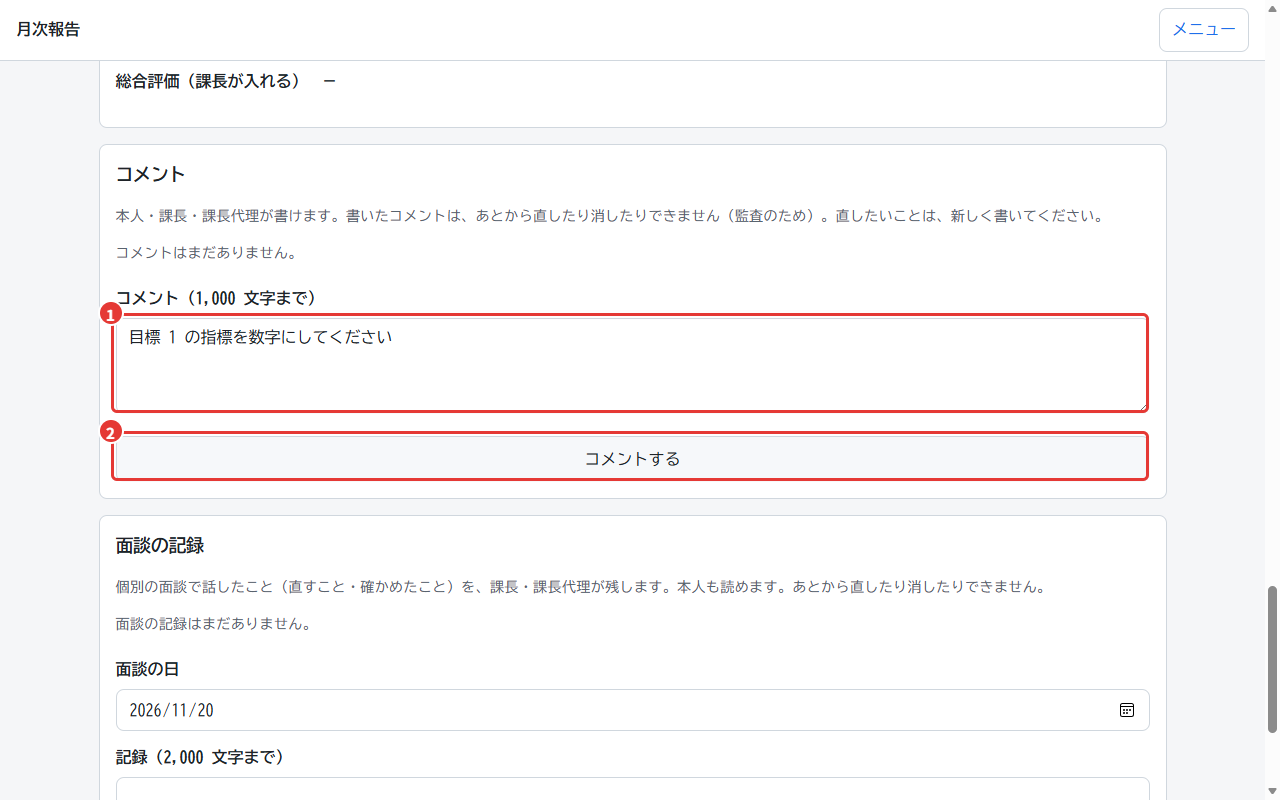
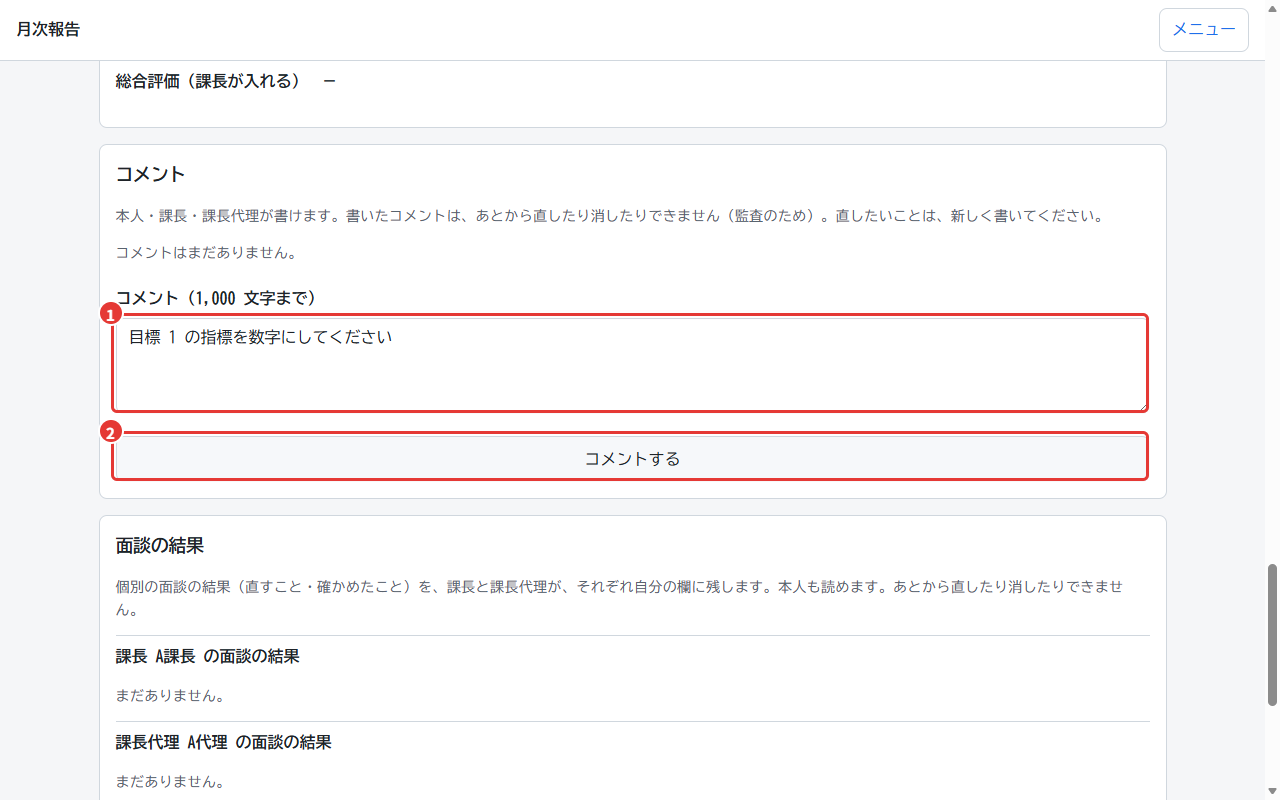
目標管理: 面談の結果を、課長・課長代理の一人ずつの欄に分けた（それぞれ自分の欄にだけ書く。課長代理の面談の結果は任意）

diff --git a/public/css/app.css b/public/css/app.css
@@ -839,3 +839,8 @@ form.wizard-active .sticky-actions button[value="submit"] { display: none; }
 .goal-reply { margin: 8px 0 0 24px; padding-left: 12px; border-left: 3px solid var(--line); }
 .goal-reply-form { margin: 6px 0 0 24px; }
 .use-backup-code { margin: 4px 0 8px; }
+.goal-meeting-block { border-top: 1px solid var(--line); padding-top: 8px; margin-top: 12px; }
+.goal-meeting-block h3 { margin: 0 0 6px; font-size: 1rem; }
+.goal-criteria-table { border-collapse: collapse; font-size: 0.85rem; min-width: 900px; }
+.goal-criteria-table td { border: 1px solid var(--line); padding: 4px 6px; vertical-align: top; min-width: 4em; }
+.app-main:has(.goal-criteria) { max-width: 1400px; }

diff --git a/tools/test/smoke_goals.py b/tools/test/smoke_goals.py
@@ -170,7 +170,7 @@ def main():
                                                                        "sheet_id": str(sheet_id), "comment_id": comment_id})
     check("コメントを消す操作はない（403）", status_code == 403, status_code)
     _, _, page_html = owner.get("/goals/edit.php?id=%d" % sheet_id)
-    check("更新の履歴に、作成・課長の評価・コメント・返信・面談が残る", all(text in page_html for text in ("作成", "課長が評価を保存", "コメント", "返信", "面談の記録")))
+    check("更新の履歴に、作成・課長の評価・コメント・返信・面談が残る", all(text in page_html for text in ("作成", "課長が評価を保存", "コメント", "返信", "面談の結果")))
 
     section("G-27", "目標管理: 課長代理・課長のシート")
     _, _, page_html = client_of("dairi_a").get("/goals/edit.php?year=%d" % fiscal_year)
@@ -247,6 +247,49 @@ def main():
         check("%s は、A課のシートをまとめて受け取れない（403）" % login_id, bulk_status == 403, bulk_status)
     _, _, history_html = owner.get("/goals/edit.php?id=%d" % sheet_id)
     check("まとめて受け取ったことも、シートの更新の履歴に残る", history_html.count("Excel を受け取った") >= 2)
+    section("G-27", "目標管理: 面談の結果は、課長・課長代理の一人ずつの欄に書く")
+    meeting_block_pattern = r'<div class="goal-meeting-block" data-reviewer-id="(\d+)">(.*?)(?=<div class="goal-meeting-block"|</section>)'
+
+    def meeting_blocks(page_html):
+        return {int(reviewer_id): block_html for reviewer_id, block_html in re.findall(meeting_block_pattern, page_html, re.S)}
+
+    boss_user_id = user_info_by_login_id["kacho_a"]["id"]
+    deputy_user_id = user_info_by_login_id["dairi_a"]["id"]
+    second_deputy_user_id = user_info_by_login_id["leader_a"]["id"]
+    _, _, page_html = owner.get("/goals/edit.php?id=%d" % sheet_id)
+    block_by_reviewer_id = meeting_blocks(page_html)
+    check("本人の画面に、課長と課長代理の欄が分かれて出る（課長が先）", list(block_by_reviewer_id) == [boss_user_id, deputy_user_id], list(block_by_reviewer_id))
+    check("課長代理の面談の結果は、課長代理の欄に出る（課長の欄には出ない）",
+          "目標2の指標を件数に直すと決めた" in block_by_reviewer_id.get(deputy_user_id, "") and "目標2の指標を件数に直すと決めた" not in block_by_reviewer_id.get(boss_user_id, ""))
+    _, _, page_html = boss.get("/goals/edit.php?id=%d" % sheet_id)
+    block_by_reviewer_id = meeting_blocks(page_html)
+    check("課長の画面では、書く欄は課長の欄にだけ出る", 'value="meeting"' in block_by_reviewer_id.get(boss_user_id, "") and 'value="meeting"' not in block_by_reviewer_id.get(deputy_user_id, ""))
+    status_code, _, _ = boss.post("/goals/edit.php?id=%d" % sheet_id, {"csrf_token": csrf(page_html), "request_key": rkey(page_html), "action": "meeting",
+                                                                      "sheet_id": str(sheet_id), "held_on": datetime.date.today().isoformat(), "note": "課長の面談: 下期は設計の指摘の件数で見る"})
+    _, _, page_html = owner.get("/goals/edit.php?id=%d" % sheet_id)
+    block_by_reviewer_id = meeting_blocks(page_html)
+    check("課長の面談の結果は、課長の欄に出る", status_code in (302, 303) and "課長の面談: 下期は設計の指摘の件数で見る" in block_by_reviewer_id.get(boss_user_id, "")
+          and "課長の面談" not in block_by_reviewer_id.get(deputy_user_id, ""), status_code)
+    # 課長代理が 2 人いるとき（主任を課長代理にして確かめ、あとで戻す）
+    database.execute("UPDATE users SET role_title = '課長代理' WHERE id = ?", (second_deputy_user_id,))
+    try:
+        _, _, page_html = owner.get("/goals/edit.php?id=%d" % sheet_id)
+        block_by_reviewer_id = meeting_blocks(page_html)
+        check("課長代理が 2 人いると、課長と課長代理 2 人の 3 つの欄が出る", list(block_by_reviewer_id) == [boss_user_id, deputy_user_id, second_deputy_user_id], list(block_by_reviewer_id))
+        second_deputy = login(arguments.base, "leader_a", user_info_by_login_id["leader_a"])
+        _, _, page_html = second_deputy.get("/goals/edit.php?id=%d" % sheet_id)
+        status_code, _, _ = second_deputy.post("/goals/edit.php?id=%d" % sheet_id, {"csrf_token": csrf(page_html), "request_key": rkey(page_html), "action": "meeting",
+                                                                                     "sheet_id": str(sheet_id), "held_on": datetime.date.today().isoformat(), "note": "2 人目の課長代理の面談"})
+        _, _, page_html = owner.get("/goals/edit.php?id=%d" % sheet_id)
+        block_by_reviewer_id = meeting_blocks(page_html)
+        check("2 人目の課長代理の面談の結果は、その人の欄に出る（ほかの 2 人の欄には出ない）", status_code in (302, 303)
+              and "2 人目の課長代理の面談" in block_by_reviewer_id.get(second_deputy_user_id, "")
+              and all("2 人目の課長代理の面談" not in block_by_reviewer_id.get(reviewer_id, "") for reviewer_id in (boss_user_id, deputy_user_id)), status_code)
+    finally:
+        database.execute("UPDATE users SET role_title = '主任' WHERE id = ?", (second_deputy_user_id,))
+    _, _, page_html = owner.get("/goals/edit.php?id=%d" % sheet_id)
+    check("主任に戻すと、その人の欄は消え、書いた面談の結果は「以前の担当」の欄に残る",
+          second_deputy_user_id not in meeting_blocks(page_html) and "以前の担当の面談の結果" in page_html and "2 人目の課長代理の面談" in page_html)
     owner.headers["User-Agent"] = MOBILE_USER_AGENT
     status_code, _, _ = owner.get("/goals/download.php?id=%d" % sheet_id)
     check("スマートフォンでは受け取れない（PC から）", status_code == 403, status_code)

diff --git a/app/views/goal_edit.php b/app/views/goal_edit.php
@@ -7,13 +7,13 @@
 /** @var array<string, mixed> $scores */
 /** @var array<int, array<string, mixed>> $comments */
 /** @var array<int, array<string, mixed>> $meetings */
+/** @var array<int, array{user_id: int, name: string, role_label: string}> $meetingReviewers 面談の結果の欄を持つ人（課長・課長代理） */
 /** @var array<int, array<string, mixed>> $history */
 /** @var string[] $errorTextList */
 /** @var bool $isMobile */
 $sheetData = $sheet['data'];
 $isOwner = $viewerRole === 'owner';
 $isBoss = $viewerRole === 'boss';
-$canWriteMeeting = in_array($viewerRole, ['boss', 'deputy'], true);
 $isNewSheet = $sheet['id'] === null;
 $formatScore = function (float $scoreValue): string { return rtrim(rtrim(number_format($scoreValue, 1), '0'), '.'); };
 // 文の欄: 書ける人には入力欄、ほかの人には文だけ
@@ -220,25 +220,46 @@ $roleNoteByViewerRole = [
 </section>
 
 <section class="card goal-meetings" id="meetings">
-  <h2>面談の記録</h2>
-  <p class="note"><?= h_lines(msg('個別の面談で話したこと（直すこと・確かめたこと）を、課長・課長代理が残します。本人も読めます。あとから直したり消したりできません。')) ?></p>
-  <?php if (!$meetings): ?><p class="note"><?= h(msg('面談の記録はまだありません。')) ?></p><?php endif; ?>
-  <?php foreach ($meetings as $meetingItem): ?>
-    <div class="goal-comment">
-      <p class="goal-comment-head"><strong><?= h($meetingItem['held_on']) ?> の面談</strong> <span class="note"><?= h($meetingItem['user_name']) ?>（<?= h(display_datetime($meetingItem['created_at'])) ?> に記録）</span></p>
-      <div><?= h_lines($meetingItem['note']) ?></div>
+  <h2>面談の結果</h2>
+  <p class="note"><?= h_lines(msg('個別の面談の結果（直すこと・確かめたこと）を、課長と課長代理が、それぞれ自分の欄に残します。課長代理の面談の結果は、なくてもかまいません（任意）。本人も読めます。あとから直したり消したりできません。')) ?></p>
+  <?php
+  $reviewerUserIdList = array_column($meetingReviewers, 'user_id');
+  $formerMeetingList = array_values(array_filter($meetings, function (array $meetingItem) use ($reviewerUserIdList): bool { return !in_array($meetingItem['created_by'], $reviewerUserIdList, true); }));
+  ?>
+  <?php if (!$meetingReviewers): ?><p class="note"><?= h(msg('このシートには、面談の結果を書く人（課長・課長代理）がいません。')) ?></p><?php endif; ?>
+  <?php foreach ($meetingReviewers as $reviewerItem): $reviewerMeetingList = array_values(array_filter($meetings, function (array $meetingItem) use ($reviewerItem): bool { return $meetingItem['created_by'] === $reviewerItem['user_id']; })); ?>
+    <div class="goal-meeting-block" data-reviewer-id="<?= (int) $reviewerItem['user_id'] ?>">
+      <h3><?= h($reviewerItem['role_label']) ?> <?= h($reviewerItem['name']) ?> の面談の結果<?= $reviewerItem['role_label'] === '課長代理' ? '（任意）' : '' ?></h3>
+      <?php if (!$reviewerMeetingList): ?><p class="note"><?= h($reviewerItem['role_label'] === '課長代理' ? msg('まだありません（課長代理の面談の結果は、なくてもかまいません）。') : msg('まだありません。')) ?></p><?php endif; ?>
+      <?php foreach ($reviewerMeetingList as $meetingItem): ?>
+        <div class="goal-comment">
+          <p class="goal-comment-head"><strong><?= h($meetingItem['held_on']) ?> の面談</strong> <span class="note"><?= h(display_datetime($meetingItem['created_at'])) ?> に記録</span></p>
+          <div><?= h_lines($meetingItem['note']) ?></div>
+        </div>
+      <?php endforeach; ?>
+      <?php if ($reviewerItem['user_id'] === (int) $user['id']): ?>
+        <form method="post" action="<?= h(url($sheetPath)) ?>" class="form">
+          <?= form_hidden() ?>
+          <input type="hidden" name="sheet_id" value="<?= (int) $sheet['id'] ?>">
+          <label for="goal-meeting-date">面談の日</label>
+          <input id="goal-meeting-date" name="held_on" type="date" value="<?= h(date('Y-m-d')) ?>" max="<?= h(date('Y-m-d')) ?>">
+          <label for="goal-meeting-note">面談の結果（2,000 文字まで）</label>
+          <textarea id="goal-meeting-note" name="note" maxlength="2000" rows="4"></textarea>
+          <button type="submit" name="action" value="meeting">面談の結果を残す</button>
+        </form>
+      <?php endif; ?>
     </div>
   <?php endforeach; ?>
-  <?php if ($canWriteMeeting): ?>
-    <form method="post" action="<?= h(url($sheetPath)) ?>" class="form">
-      <?= form_hidden() ?>
-      <input type="hidden" name="sheet_id" value="<?= (int) $sheet['id'] ?>">
-      <label for="goal-meeting-date">面談の日</label>
-      <input id="goal-meeting-date" name="held_on" type="date" value="<?= h(date('Y-m-d')) ?>" max="<?= h(date('Y-m-d')) ?>">
-      <label for="goal-meeting-note">記録（2,000 文字まで）</label>
-      <textarea id="goal-meeting-note" name="note" maxlength="2000" rows="4"></textarea>
-      <button type="submit" name="action" value="meeting">面談の記録を残す</button>
-    </form>
+  <?php if ($formerMeetingList): ?>
+    <div class="goal-meeting-block">
+      <h3>以前の担当の面談の結果</h3>
+      <?php foreach ($formerMeetingList as $meetingItem): ?>
+        <div class="goal-comment">
+          <p class="goal-comment-head"><strong><?= h($meetingItem['held_on']) ?> の面談</strong> <span class="note"><?= h($meetingItem['user_name']) ?>（<?= h(display_datetime($meetingItem['created_at'])) ?> に記録）</span></p>
+          <div><?= h_lines($meetingItem['note']) ?></div>
+        </div>
+      <?php endforeach; ?>
+    </div>
   <?php endif; ?>
 </section>
 

diff --git a/app/lib/messages_catalog.php b/app/lib/messages_catalog.php
@@ -317,12 +317,15 @@ return [
     '精算書を削除しました' => ['screens' => ['G-26 通勤定期代の精算']],
     '総務の様式に、保存した内容を入れたファイルです。' => ['screens' => ['G-26 通勤定期代の精算']],
     '通勤定期代の精算書を作って、総務の様式の Excel（.xlsx）で受け取ります。精算書を見られるのは自分だけです。月次報告とは別の機能で、承認の流れはありません。' => ['screens' => ['G-26 通勤定期代の精算']],
+    'このシートには、面談の結果を書く人（課長・課長代理）がいません。' => ['screens' => ['G-27 目標管理']],
     'このシートは読めません（暗号の鍵が変わった可能性があります）。システム管理者に連絡してください。' => ['screens' => ['G-27 目標管理']],
     'この年度の課の人のシートは、まだありません。' => ['screens' => ['G-27 目標管理']],
     'この様式は選べません（様式は役職で決まります）。' => ['screens' => ['G-27 目標管理']],
+    'まだありません。' => ['screens' => ['G-27 目標管理']],
+    'まだありません（課長代理の面談の結果は、なくてもかまいません）。' => ['screens' => ['G-27 目標管理']],
     'コメント' => ['screens' => ['G-27 目標管理']],
     'コメントはまだありません。' => ['screens' => ['G-27 目標管理']],
-    '個別の面談で話したこと（直すこと・確かめたこと）を、課長・課長代理が残します。本人も読めます。あとから直したり消したりできません。' => ['screens' => ['G-27 目標管理']],
+    '個別の面談の結果（直すこと・確かめたこと）を、課長と課長代理が、それぞれ自分の欄に残します。課長代理の面談の結果は、なくてもかまいません（任意）。本人も読めます。あとから直したり消したりできません。' => ['screens' => ['G-27 目標管理']],
     '本人・課長・課長代理が書けます。書いたコメントは、あとから直したり消したりできません（監査のため）。直したいことは、新しく書いてください。' => ['screens' => ['G-27 目標管理']],
     '様式の欄: {lines} 行・1 行 {width} 字ほど' => ['screens' => ['G-27 目標管理']],
     '様式は役職で決まります（{kind}）。' => ['screens' => ['G-27 目標管理']],
@@ -339,9 +342,8 @@ return [
     '課長以上の様式を選んでいます。営業・間接部門の人は切り替えてください（コンピテンシーの項目が変わります）。' => ['screens' => ['G-27 目標管理']],
     '達成率（実績 ÷ 計画）と評点（120% を超える：5／110% 以上：4／100% 以上：3／95% 以上：2／85% 以上：1／それ未満：0）は、様式の式で計算します。' => ['screens' => ['G-27 目標管理']],
     '面談の日を正しく入れてください（今日より先の日は入れられません）' => ['screens' => ['G-27 目標管理']],
+    '面談の結果を残しました' => ['screens' => ['G-27 目標管理']],
     '面談の記録' => ['screens' => ['G-27 目標管理']],
-    '面談の記録はまだありません。' => ['screens' => ['G-27 目標管理']],
-    '面談の記録を残しました' => ['screens' => ['G-27 目標管理']],
     '2 段階認証・予備のコード・ログインを覚えた端末・パスワード・画面のテーマを設定します。パスワードは「自動で作る」で作ることもできます。' => ['screens' => ['共通']],
     '{department} の課長が 2 人以上になります（課長は 1 人にしてください）' => ['screens' => ['共通']],
     '{goal}の「{field}」が長すぎます。様式の欄（{lines} 行・1 行 {width} 字ほど）に収まるようにしてください（いま {count} 行）' => ['screens' => ['共通']],

diff --git a/app/lib/goal.php b/app/lib/goal.php
@@ -414,7 +414,7 @@ function goal_add_history(int $sheetId, int $actorUserId, string $historyAction)
 /** 履歴の操作の表示名 */
 const GOAL_HISTORY_LABELS = [
     'create' => '作成', 'save_owner' => '本人が保存', 'save_boss' => '課長が評価を保存', 'comment' => 'コメント', 'reply' => '返信',
-    'meeting' => '面談の記録', 'download' => 'Excel を受け取った',
+    'meeting' => '面談の結果', 'download' => 'Excel を受け取った',
 ];
 
 /**
@@ -443,16 +443,48 @@ function goal_comments(int $sheetId): array
 }
 
 /**
+ * そのシートの面談をする人（面談の結果の欄を持つ人）: その課の課長と、そのシートを見る課長代理（複数いれば全員）。
+ * 持ち主の今の所属の課で決める（goal_viewer_role() と同じ決まり）。課長のシートは本人だけなので、面談をする人はいない
+ *
+ * @return array<int, array{user_id: int, name: string, role_label: string}>
+ */
+function goal_meeting_reviewers(int $ownerUserId): array
+{
+    $owner = db_one('SELECT id, department_id FROM users WHERE id = ?', [$ownerUserId]);
+    if ($owner === null || empty($owner['department_id'])) {
+        return [];
+    }
+    $reviewerList = [];
+    $candidateRowList = db_all(
+        "SELECT u.id, u.display_name, u.role_title, u.department_id,
+                (SELECT 1 FROM department_reviewers dr WHERE dr.user_id = u.id AND dr.department_id = ? AND dr.is_final = 1) AS is_final
+           FROM users u
+          WHERE u.is_active = 1 AND u.id <> ?
+            AND (u.id IN (SELECT user_id FROM department_reviewers WHERE department_id = ? AND is_final = 1) OR (u.role_title = '課長代理' AND u.department_id = ?))
+          ORDER BY is_final DESC, u.id",
+        [(int) $owner['department_id'], $ownerUserId, (int) $owner['department_id'], (int) $owner['department_id']]
+    );
+    foreach ($candidateRowList as $candidateRow) {
+        $viewerRole = goal_viewer_role(['id' => (int) $candidateRow['id'], 'role_title' => (string) $candidateRow['role_title'], 'department_id' => $candidateRow['department_id']], $ownerUserId);
+        if ($viewerRole === 'boss' || $viewerRole === 'deputy') {
+            $reviewerList[] = ['user_id' => (int) $candidateRow['id'], 'name' => (string) $candidateRow['display_name'], 'role_label' => $viewerRole === 'boss' ? '課長' : '課長代理'];
+        }
+    }
+    return $reviewerList;
+}
+
+/**
  * 面談の記録（新しい順）
  *
- * @return array<int, array{id: int, held_on: string, note: string, user_name: string, created_at: string}>
+ * @return array<int, array{id: int, held_on: string, note: string, user_name: string, created_by: int, created_at: string}>
  */
 function goal_meetings(int $sheetId): array
 {
     $meetingList = [];
-    foreach (db_all('SELECT m.id, m.held_on, m.note_enc, m.created_at, u.display_name FROM goal_sheet_meetings m JOIN users u ON u.id = m.created_by WHERE m.sheet_id = ? ORDER BY m.held_on DESC, m.id DESC', [$sheetId]) as $meetingRow) {
+    foreach (db_all('SELECT m.id, m.held_on, m.note_enc, m.created_at, m.created_by, u.display_name FROM goal_sheet_meetings m JOIN users u ON u.id = m.created_by WHERE m.sheet_id = ? ORDER BY m.held_on DESC, m.id DESC', [$sheetId]) as $meetingRow) {
         $meetingList[] = [
             'id' => (int) $meetingRow['id'], 'held_on' => (string) $meetingRow['held_on'], 'user_name' => (string) $meetingRow['display_name'],
+            'created_by' => (int) $meetingRow['created_by'],
             'note' => dec((string) $meetingRow['note_enc'], 'goal_sheet_meetings:' . $sheetId) ?? msg('（この内容は表示できません）'),
             'created_at' => (string) $meetingRow['created_at'],
         ];

diff --git a/app/pages/goal_edit.php b/app/pages/goal_edit.php
@@ -91,6 +91,10 @@ if (is_post()) {
         }
         rk_cancel();
     } else {
+        // 面談の結果は、自分の欄にだけ書く（課長・そのシートを見る課長代理。goal_meeting_reviewers()）
+        if (!in_array($userId, array_column(goal_meeting_reviewers($sheet['user_id']), 'user_id'), true)) {
+            error_page(403);
+        }
         $heldOnText = post_str('held_on');
         $meetingNoteText = trim(str_replace(["\r\n", "\r"], "\n", post_str('note', false)));
         if (!expense_is_valid_date($heldOnText) || $heldOnText > date('Y-m-d')) {
@@ -101,7 +105,7 @@ if (is_post()) {
             db_exec('INSERT INTO goal_sheet_meetings (sheet_id, held_on, note_enc, created_by, created_at) VALUES (?, ?, ?, ?, ?)',
                 [$sheet['id'], $heldOnText, enc($meetingNoteText, 'goal_sheet_meetings:' . $sheet['id']), $userId, now()]);
             goal_add_history((int) $sheet['id'], $userId, 'meeting');
-            flash('success', msg('面談の記録を残しました'));
+            flash('success', msg('面談の結果を残しました'));
             rk_done($sheetPath . '#meetings');
         }
         rk_cancel();
@@ -120,6 +124,7 @@ render('goal_edit', [
     'scores'        => goal_scores($sheet['data'], $sheet['kind']),
     'comments'      => $sheet['id'] !== null ? goal_comments((int) $sheet['id']) : [],
     'meetings'      => $sheet['id'] !== null ? goal_meetings((int) $sheet['id']) : [],
+    'meetingReviewers' => $sheet['id'] !== null ? goal_meeting_reviewers($sheet['user_id']) : [],
     'history'       => $sheet['id'] !== null ? goal_history((int) $sheet['id']) : [],
     'errorTextList' => $errorTextList,
     'isMobile'      => is_mobile_request(),

diff --git a/docs/detailed_design/G27_goals.md b/docs/detailed_design/G27_goals.md
@@ -67,7 +67,7 @@
 ### 3.3 コメント・面談の記録・更新の履歴
 
 - コメント（1,000 文字まで）と返信（コメントに 1 段だけ）: 本人・課長・課長代理。
-- 面談の記録（面談の日・記録 2,000 文字まで）: 課長・課長代理が残す。本人も読める。面談の日に今日より先の日は入れない。
+- 面談の結果（面談の日・結果 2,000 文字まで）: **課長と課長代理の一人ずつに欄を分ける**（`goal_meeting_reviewers()`。その課の課長と、そのシートを見る課長代理の全員。課長が先、あとは利用者の番号の順）。それぞれ自分の欄にだけ書ける（ほかの人の欄の書く場所は出さず、送られても 403）。課長代理の面談の結果は任意（なくてもよい。欄の見出しに「（任意）」と出す。書かなくても、評価の保存や Excel の出力は止めない）。本人も読める。面談の日に今日より先の日は入れない。異動・役職の変更で欄を持たなくなった人が書いた結果は「以前の担当の面談の結果」にまとめて残す。
 - **コメント・返信・面談の記録は、直さない・消さない**（監査のため。直したいことは新しく書いて残す）。
 - 更新の履歴: 作成・本人の保存・課長の評価の保存・コメント・返信・面談の記録・xlsx を受け取った、を、だれが・いつ（中身は入れない）。シートを見られる人が見る。
 - 記録（`access_logs`）には残さない（管理者が見る記録に、評価のことを出さないため）。
@@ -110,5 +110,6 @@
 - 様式の欄に収まらない長さ、同じ年度のシートは 1 つ、面談の日
 - 様式は役職で決まる（一般には選ぶ欄を出さない・URL で別の様式を指定しても変わらない・送っても 403。課長は 3 つから選べる）
 - コメント・返信・面談の記録、消す操作がない、更新の履歴、暗号化
+- 面談の結果の欄は課長・課長代理の一人ずつ（課長代理が 2 人なら 3 つの欄）。書く場所は自分の欄にだけ。欄を持たなくなった人の結果は「以前の担当」に残る
 - 課長の一覧から 1 人ずつ・まとめて（zip）受け取れる。課長代理には出さない。課長代理・ほかの課の課長・管理者・本人はまとめて受け取れない（403）
 - 評点の計算、xlsx（値の入るセル・行に分けた文・目標 2 の位置・式の値・業績目標・開くシート・様式のほかの部分がそのまま）、スマートフォンでは受け取れない

diff --git a/docs/operation_manual.md b/docs/operation_manual.md
@@ -1100,9 +1100,9 @@ LibreOffice Calc でそのまま開けます。「ダウンロード」フォル
 
 - シートの下の「コメント」の欄（図の 1）に書いて「コメントする」（図の 2）を押すと、本人・課長・課長代理が読めます。
 
-![面談の記録。1 面談の日、2 記録、3 面談の記録を残す](manual/images/m14_11_meeting.png)
+![面談の結果（自分の欄）。1 面談の日、2 面談の結果、3 面談の結果を残す](manual/images/m14_11_meeting.png)
 
-- 個別の面談をしたら、課長・課長代理が、面談の日（図の 1）と、話して決めたこと（図の 2）を書いて「面談の記録を残す」（図の 3）を押します。本人も読めます。
+- 「面談の結果」は、課長と課長代理の一人ずつに欄が分かれています（その人のシートを見る課長代理が 2 人いれば、課長と合わせて 3 つの欄）。個別の面談をしたら、自分の欄（「課長 （名前） の面談の結果」など）で、面談の日（図の 1）と、面談の結果（図の 2）を書いて「面談の結果を残す」（図の 3）を押します。ほかの人の欄には書けません。本人も読めます。課長代理の面談の結果は、なくてもかまいません（任意）。
 
 ![返信。1 返信、2 返信の文、3 返信する](manual/images/m14_12_reply.png)
 
